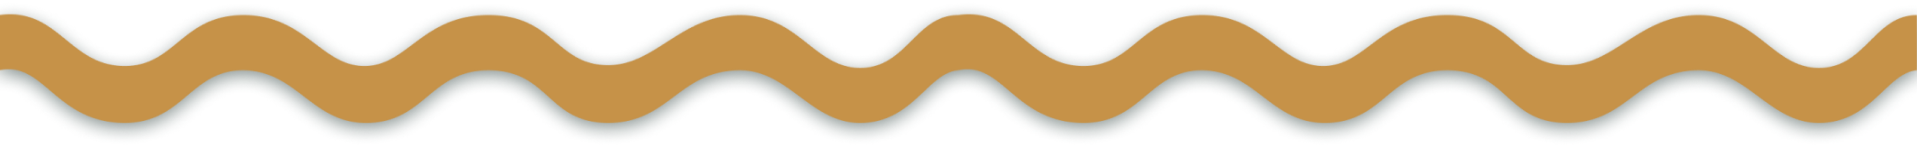
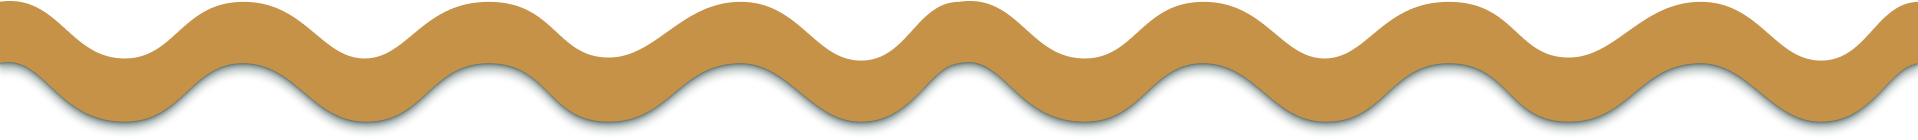
Squiggle fixes

diff --git a/src/app/Work.jsx b/src/app/Work.jsx
@@ -40,7 +40,7 @@ const Work = () => {
       <div className="absolute bottom-0 h-[76px] w-full bg-seawater"></div>
       <div
         alt=""
-        className="absolute bottom-[4px] inline-block h-[136px] w-[1920px] bg-dijonSquiggle bg-auto bg-center"
+        className="absolute bottom-[-1px] inline-block h-[140px] w-[1920px] bg-dijonSquiggle bg-auto bg-center"
       />
     </section>
   );

diff --git a/src/app/General.jsx b/src/app/General.jsx
@@ -97,7 +97,7 @@ const General = () => {
       <div className="absolute bottom-0 h-[82px] w-full bg-fluff"></div>
       <div
         alt=""
-        className="absolute bottom-0 inline-block h-[142px] w-[1920px] bg-greenSquiggle bg-auto bg-center"
+        className="absolute bottom-[-3px] inline-block h-[146px] w-[1920px] bg-greenSquiggle bg-auto bg-center"
       />
     </section>
   );

diff --git a/src/app/Stack.jsx b/src/app/Stack.jsx
@@ -46,7 +46,7 @@ const Stack = () => {
       <div className="absolute bottom-0 h-[76px] w-full bg-dijon"></div>
       <div
         alt=""
-        className="absolute bottom-0 inline-block h-[136px] w-[1920px] bg-pinkSquiggle bg-auto bg-center"
+        className="absolute bottom-0 inline-block h-[140px] w-[1920px] bg-pinkSquiggle bg-auto bg-center"
       />
     </section>
   );
